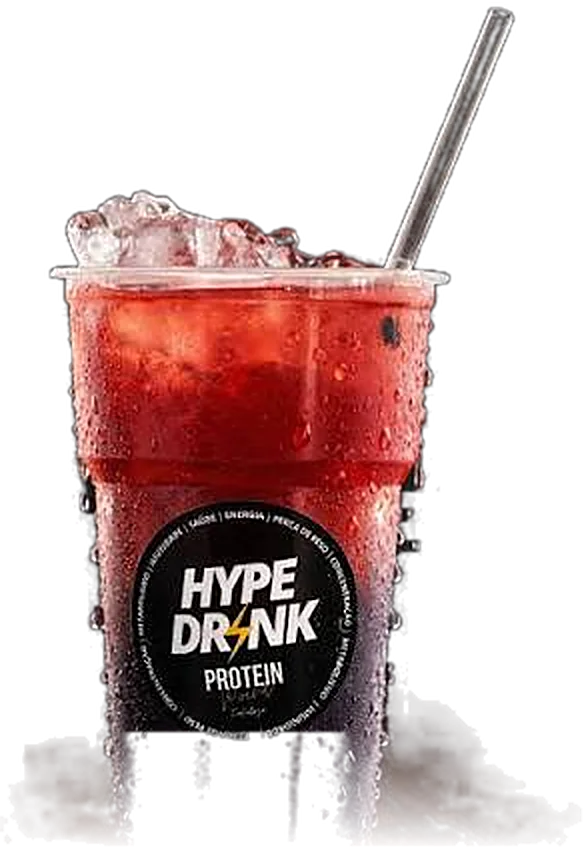
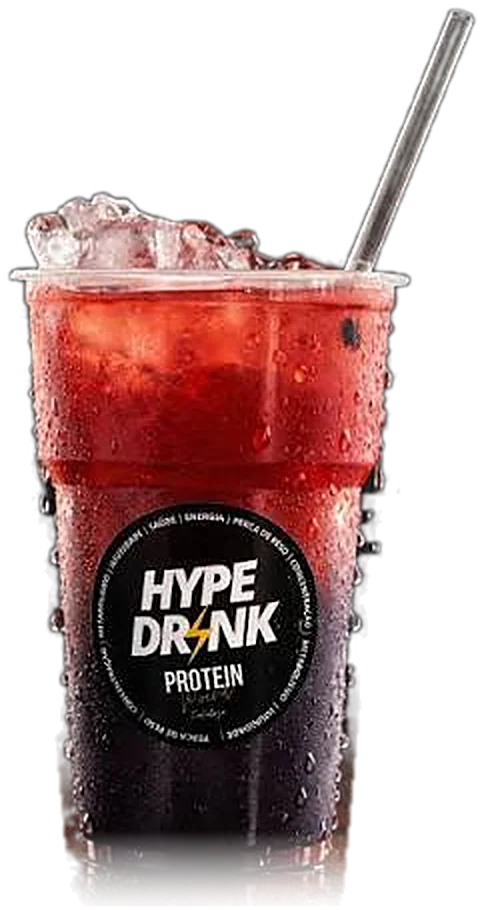
feat: atualizar componentes Hero e HeroCup, otimizar animações com gsap e ajustar dimensões da imagem do copo

diff --git a/src/components/HeroCup.tsx b/src/components/HeroCup.tsx
@@ -1,5 +1,6 @@
-import { useId, useEffect, useMemo, useRef } from 'react'
+import { useId, useLayoutEffect, useMemo, useRef } from 'react'
 import { useReducedMotion } from 'framer-motion'
+import gsap from 'gsap'
 import cupPhoto from '../assets/cup.webp'
 
 type Props = {
@@ -28,43 +29,31 @@ export function HeroCup({ start = true, className = '' }: Props) {
 
   const wave = useMemo(() => buildWave(14, 240, -480, 960, 1400), [])
 
-  useEffect(() => {
+  useLayoutEffect(() => {
     if (reduced || !start) return
 
-    let revert: (() => void) | undefined
-    let cancelled = false
+    const ctx = gsap.context(() => {
+      gsap.set('.cup-fill', { y: 980 })
 
-    import('gsap').then(({ default: gsap }) => {
-      if (cancelled) return
+      gsap.to('.wave-a', { x: -480, duration: 4.2, ease: 'none', repeat: -1 })
 
-      const ctx = gsap.context(() => {
-        gsap.set('.cup-fill', { y: 980 })
+      const tl = gsap.timeline({ delay: 0.3 })
+      tl.to('.cup-fill', { y: 0, duration: 2.3, ease: 'power2.inOut' })
+        .to(
+          '.cup-wrap',
+          {
+            keyframes: [
+              { scaleY: 0.97, scaleX: 1.025, duration: 0.14, ease: 'power2.out' },
+              { scaleY: 1.015, scaleX: 0.99, duration: 0.18 },
+              { scaleY: 1, scaleX: 1, duration: 0.8, ease: 'elastic.out(1, 0.4)' },
+            ],
+            transformOrigin: '50% 92%',
+          },
+          '-=0.45',
+        )
+    }, scope)
 
-        gsap.to('.wave-a', { x: -480, duration: 4.2, ease: 'none', repeat: -1 })
-
-        const tl = gsap.timeline({ delay: 0.3 })
-        tl.to('.cup-fill', { y: 0, duration: 2.3, ease: 'power2.inOut' })
-          .to(
-            '.cup-wrap',
-            {
-              keyframes: [
-                { scaleY: 0.97, scaleX: 1.025, duration: 0.14, ease: 'power2.out' },
-                { scaleY: 1.015, scaleX: 0.99, duration: 0.18 },
-                { scaleY: 1, scaleX: 1, duration: 0.8, ease: 'elastic.out(1, 0.4)' },
-              ],
-              transformOrigin: '50% 92%',
-            },
-            '-=0.45',
-          )
-      }, scope)
-
-      revert = () => ctx.revert()
-    })
-
-    return () => {
-      cancelled = true
-      revert?.()
-    }
+    return () => ctx.revert()
   }, [reduced, start])
 
   return (
@@ -76,7 +65,7 @@ export function HeroCup({ start = true, className = '' }: Props) {
       />
 
       <div className="cup-wrap relative">
-        <svg viewBox="0 0 584 852" className="w-full" role="img" aria-label="Copo da Hype Drink enchendo">
+        <svg viewBox="0 0 484 910" className="w-full" role="img" aria-label="Copo da Hype Drink enchendo">
           <defs>
             {/* máscara (e não clipPath: grupos dentro de clipPath são ignorados) */}
             <mask id={`fill-${uid}`}>
@@ -93,14 +82,14 @@ export function HeroCup({ start = true, className = '' }: Props) {
           {/* copo "vazio": a mesma foto, apagada */}
           <image
             href={cupPhoto}
-            width="584"
-            height="852"
+            width="484"
+            height="910"
             style={{ filter: 'brightness(0.32) saturate(0.25)' }}
           />
 
           {/* bebida: a foto em cor cheia, revelada pela onda */}
           <g mask={reduced ? undefined : `url(#fill-${uid})`}>
-            <image href={cupPhoto} width="584" height="852" />
+            <image href={cupPhoto} width="484" height="910" />
           </g>
 
         </svg>

diff --git a/src/components/Hero.tsx b/src/components/Hero.tsx
@@ -48,14 +48,10 @@ export function Hero({ ready }: { ready: boolean }) {
         ))}
       </div>
 
-      <div className="relative mx-auto flex max-w-7xl flex-col gap-4 px-6 pb-4 pt-20 sm:gap-6 sm:px-10 sm:pb-8 sm:pt-28 lg:min-h-[92svh] lg:justify-between lg:gap-0 lg:pb-8">
+      <div className="relative mx-auto flex min-h-[92svh] max-w-7xl flex-col justify-between px-6 pb-8 pt-24 sm:px-10 sm:pt-28">
         {/* linha superior */}
         <div className="relative z-0 flex flex-col gap-1 sm:flex-row sm:items-start sm:justify-between sm:gap-4">
-          <motion.h1
-            {...enter(0.15)}
-            style={{ x: leftX }}
-            className={`${word} text-[clamp(2.1rem,7vw,5.5rem)] lg:max-w-[58%]`}
-          >
+          <motion.h1 {...enter(0.15)} style={{ x: leftX }} className={`${word} text-[clamp(2.1rem,9vw,7rem)]`}>
             Seu momento.
           </motion.h1>
           <motion.span
@@ -72,7 +68,7 @@ export function Hero({ ready }: { ready: boolean }) {
         {/* o copo */}
         <motion.div
           style={{ y: cupY, scale: cupScale }}
-          className="pointer-events-none z-30 -mb-6 flex justify-center sm:-mb-6 lg:absolute lg:inset-x-0 lg:top-[14%] lg:mb-0"
+          className="pointer-events-none absolute inset-x-0 top-[13%] z-30 flex justify-center sm:top-[14%]"
         >
           <HeroCup start={ready} className="w-[48%] max-w-[205px] sm:w-[40%] sm:max-w-[320px] lg:w-[32%] lg:max-w-[400px]" />
         </motion.div>
@@ -81,13 +77,13 @@ export function Hero({ ready }: { ready: boolean }) {
         <motion.p
           {...enter(0.35)}
           style={{ x: rightX }}
-          className={`${word} relative z-0 text-right text-[clamp(2.6rem,13vw,10rem)] text-hype-300 lg:mt-auto`}
+          className={`${word} relative z-0 mt-auto text-right text-[clamp(2.6rem,13vw,10rem)] text-hype-300`}
         >
           Seu Hype.
         </motion.p>
 
         {/* rodapé da hero */}
-        <div className="relative z-20 flex flex-col gap-6 sm:flex-row sm:items-end sm:justify-between lg:mt-8">
+        <div className="relative z-20 mt-8 flex flex-col gap-6 sm:mt-10 sm:flex-row sm:items-end sm:justify-between">
           <motion.div {...enter(0.45)} className="flex items-start gap-3">
             <HypeLogo className="h-11 w-11 shrink-0" ring={false} />
             <p className="max-w-[26ch] font-mono text-[11px] uppercase leading-[1.7] tracking-[0.12em] text-foam/55">

diff --git a/vite.config.ts b/vite.config.ts
@@ -4,18 +4,6 @@ import react from '@vitejs/plugin-react'
 export default defineConfig({
   base: './',
   plugins: [react()],
-  build: {
-    // a foto do copo entra embutida no bundle (versão de arquivo único)
-    assetsInlineLimit: 1024 * 1024,
-    rolldownOptions: {
-      output: {
-        manualChunks(id) {
-          if (!id.includes('node_modules')) return
-          if (id.includes('react')) return 'react'
-          if (id.includes('framer-motion')) return 'framer-motion'
-          if (id.includes('gsap')) return 'gsap'
-        },
-      },
-    },
-  },
+  // a foto do copo entra embutida no bundle (versão de arquivo único)
+  build: { assetsInlineLimit: 1024 * 1024 },
 })
